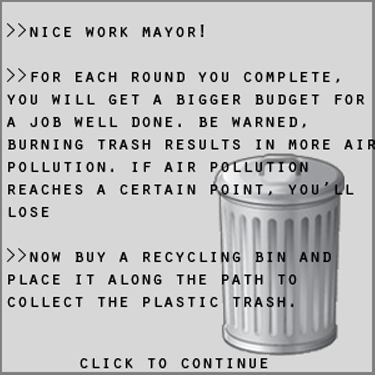
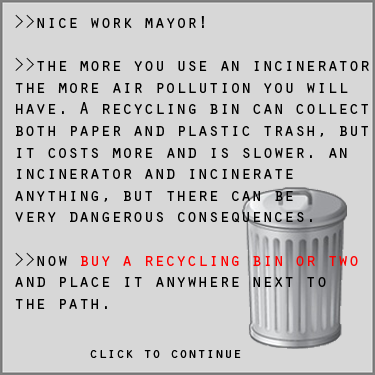
makin some levelz

diff --git a/src/Menu.java b/src/Menu.java
@@ -41,10 +41,10 @@ public class Menu extends JPanel implements Runnable {
 		startWaveButton.addActionListener(new StartWaveButtonListener());
 		JButton windmillButton = new JButton("Add Windmill-$300");
 		windmillButton.addActionListener(new WindmillButtonListener());
-		JButton metalButton = new JButton("Add Scrap Metal-$150");
+		JButton metalButton = new JButton("Add Magnet-$150");
 		metalButton.addActionListener(new MetalButtonListener());
-		add(recycleButton);
 		add(inceneratorButton);
+		add(recycleButton);
 		add(metalButton);
 		add(windmillButton);
 		add(startWaveButton);
@@ -161,13 +161,16 @@ public class Menu extends JPanel implements Runnable {
 
 				// Detect a left click
 				if (e.getButton() == 1) {
+					int towerRate = 1;
 					Util.TowerType type = null;
 
 					if (addInceneratorTower) {
 						type = Util.TowerType.incenerator;
+						towerRate = 2;
 
 					} else if ((addRecycleTower)) {
 						type = Util.TowerType.recycle;
+						towerRate = 1;
 
 					} else if ((addWindmillTower)) {
 
@@ -181,7 +184,7 @@ public class Menu extends JPanel implements Runnable {
 					boolean isValid = validTower(mouseX, mouseY, type);
 
 					if (type != null && isValid) {
-						gameBoard.addTower(new Tower(adjX, adjY, 1, 25, type,
+						gameBoard.addTower(new Tower(adjX, adjY, towerRate, 25, type,
 								isValid, currentTowerDirection));
 						gameBoard.removeMoney(getCost(type));
 						gameBoard.pendingTower = null;

diff --git a/src/WaveGen.java b/src/WaveGen.java
@@ -18,22 +18,39 @@ public class WaveGen {
     	int initY= Util.pathPad;
     	int speed= 0;
     	ArrayList<Util.TrashType> types = new ArrayList<Util.TrashType>();
+    	
     	if (level ==1){
     	num =10;
     	spacing = 135;
-    	speed =2;
+    	speed =2;     //high for testing purposes, should be 2
     	types.add(Util.TrashType.paper);
-    	
-    		
+    	types.add(Util.TrashType.aluminum);
+    	types.add(Util.TrashType.metal);
+   
     	}else if (level ==2){
-    	
-    	
+   
     	num =20;
     	spacing = 85;
     	speed =3;
     	types.add(Util.TrashType.paper);
     	
+    	
+    	}else if (level ==3){
+    		num = 25;
+    		spacing = 85;
+    		speed =3;
+    		types.add(Util.TrashType.paper);
+    		types.add(Util.TrashType.plastic);
+    	}else if (level ==4){
+    		num = 30;
+    		spacing= 80;
+    		speed = 4;
+    		types.add(Util.TrashType.plastic);
+    		types.add(Util.TrashType.aluminum);
     	}
+    	
+    	
+    	
     	int curX=-30;
     	
     	for(int i=0; i<num; i++){
@@ -54,6 +71,9 @@ public ArrayList<ImageIcon> getMessages(int level) {
 			temp.add(new ImageIcon(this.getClass().getResource(
 					"pics/welcome1.png")));
 		if (level == 2)
+			temp.add(new ImageIcon(this.getClass().getResource(
+					"pics/welcome3.png")));
+		if (level == 3)
 			temp.add(new ImageIcon(this.getClass().getResource(
 					"pics/welcome2.png")));
 		return temp;

diff --git a/src/Trash.java b/src/Trash.java
@@ -20,6 +20,9 @@ public class Trash{
 	}else if(type==Util.TrashType.plastic){
 	    ImageIcon ii = new ImageIcon(this.getClass().getResource("pics/Trash/plastic.png"));
 	    trashPic = ii.getImage();
+	}else if(type==Util.TrashType.metal){
+	    ImageIcon ii = new ImageIcon(this.getClass().getResource("pics/Trash/metal.png"));
+	    trashPic = ii.getImage();
 	}else if(type==Util.TrashType.aluminum){
 	    ImageIcon ii = new ImageIcon(this.getClass().getResource("pics/Trash/aluminum.png"));
 	    trashPic = ii.getImage();
@@ -86,9 +89,11 @@ private boolean willTowerFire(Tower tower){
                 return true;
             }
         }else if(tower.getType()==Util.TowerType.incenerator){
+        		if (this.type==Util.TrashType.paper || this.type==Util.TrashType.plastic || this.type==Util.TrashType.food){
             return true;
+        		}
         }else if(tower.getType()==Util.TowerType.metal){
-            if(this.type==Util.TrashType.metal){
+            if(this.type==Util.TrashType.metal || this.type==Util.TrashType.aluminum){
                 return true;
             }
         }else if(tower.getType()==Util.TowerType.recycle){

diff --git a/src/Board.java b/src/Board.java
@@ -347,9 +347,14 @@ public class Board extends JPanel implements Runnable {
 	private void calculateScore(Tower tower, Trash trash){
 		
 		if(tower.type==Util.TowerType.incenerator){
-			budget+=15;
+			budget+=10;
 			airQual-=15;
-		}else{
+		}else if (tower.type==Util.TowerType.recycle){
+			airQual +=5;
+			budget+=15;
+		}
+		
+		else{
 			budget+=25;
 		}
 		
